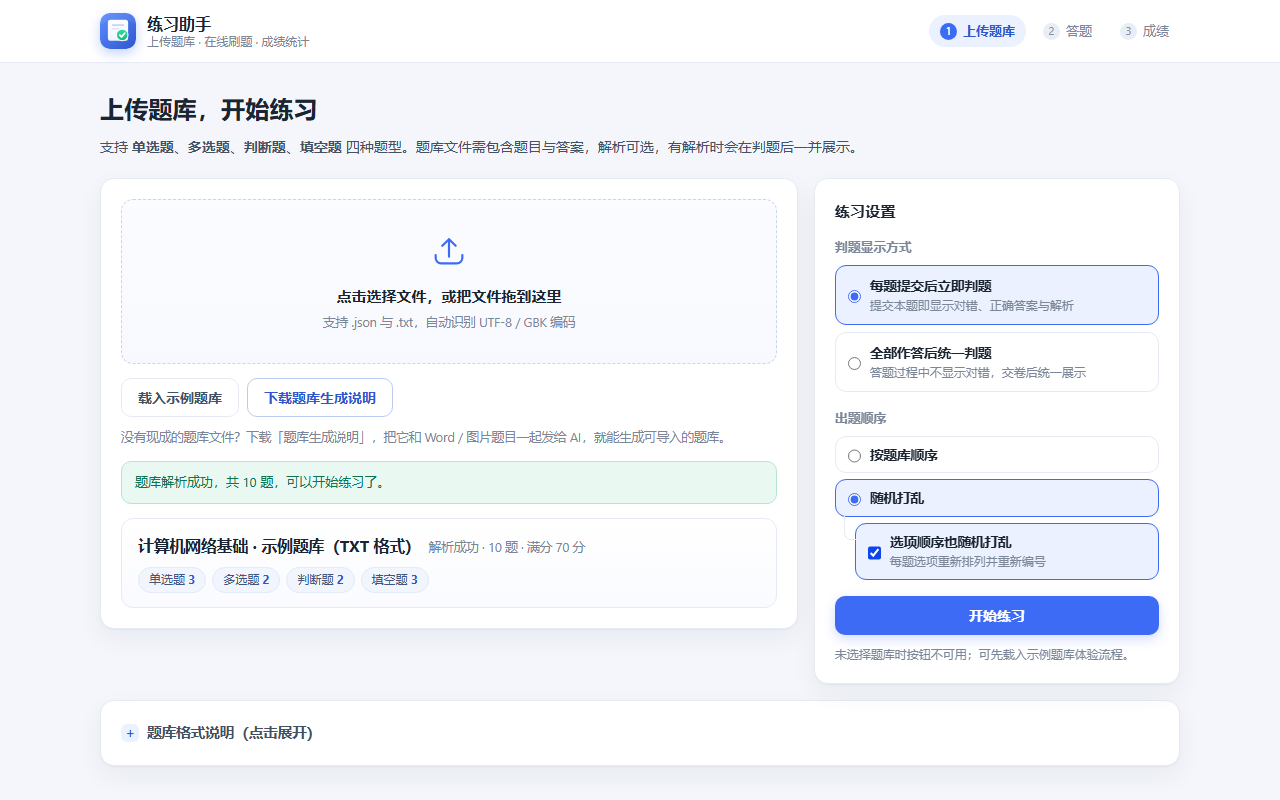
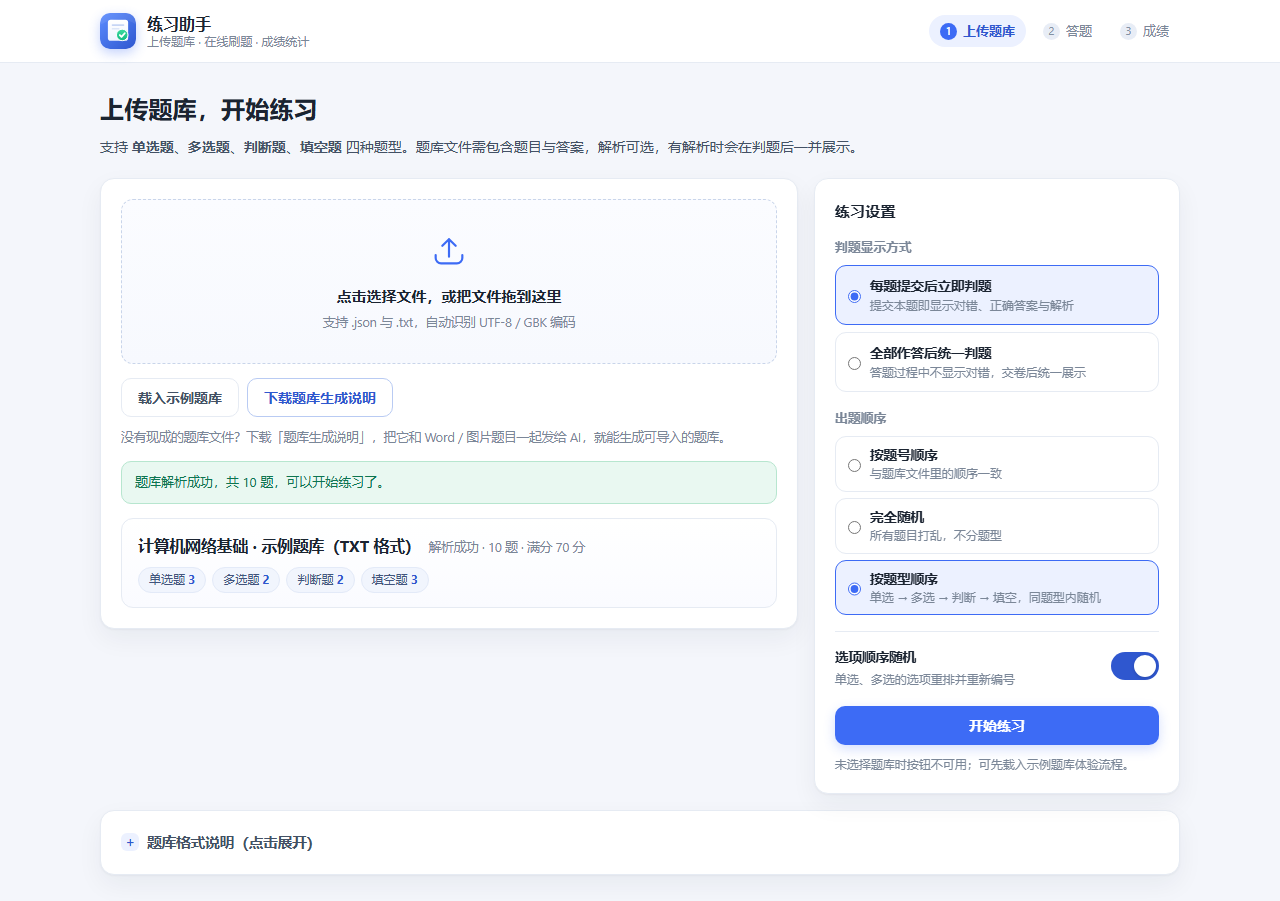
feat: 出题顺序改为三档，选项乱序独立成开关
- 出题顺序：按题号顺序 / 完全随机 / 按题型顺序（单选→多选→判断→填空，同题型内随机）
- 选项乱序由「随机打乱」的附属勾选改为独立开关，任意出题顺序下都能开，仅影响单选与多选
- 措辞统一：每项配一句说明，说明差异而不是堆术语
- 练习页顶部仅在非默认顺序或开启选项乱序时追加标注，默认态保持简洁
- README 同步，上传页截图按新面板重拍

diff --git a/js/app.js b/js/app.js
@@ -65,8 +65,8 @@
     results: [],         // { graded, correct, score }
     current: 0,
     mode: 'instant',     // instant | defer
-    order: 'seq',
-    shuffleOptions: false, // 随机打乱题目的同时，是否也打乱每题选项顺序
+    order: 'seq',          // seq | random | byType
+    shuffleOptions: false, // 选项顺序是否随机（独立开关，不影响出题顺序）
     startTs: 0,
     elapsed: 0,
     timerId: null,
@@ -527,20 +527,48 @@
     q.answers = q.answers.map((k) => oldToNew[k] || k);
   }
 
-  function modeSummary(shuffleOpt) {
+  function modeSummary() {
     const tags = [S.mode === 'instant' ? '每题提交后立即判题' : '全部作答后统一判题'];
-    if (S.order === 'random') tags.push(shuffleOpt ? '题目随机 · 选项乱序' : '题目随机');
+    const orderLabel = { random: '完全随机', byType: '按题型顺序' }[S.order];
+    if (orderLabel) tags.push(orderLabel);
+    if (S.shuffleOptions) tags.push('选项乱序');
     return tags.join(' · ');
+  }
+
+  /**
+   * 按当前设置排列本轮题目：先深拷贝（打乱不污染原题库），
+   * 再按出题顺序重排，最后按需打乱每题选项。
+   */
+  function arrangeQuestions(list) {
+    const cloned = list.map(cloneQuestion);
+    let qs;
+
+    if (S.order === 'random') {
+      qs = shuffle(cloned);
+    } else if (S.order === 'byType') {
+      // 题型固定顺序：单选 → 多选 → 判断 → 填空（选择题优先），同题型内随机
+      const rank = { single: 0, multiple: 1, judge: 2, blank: 3 };
+      const buckets = [[], [], [], []];
+      cloned.forEach((q) => {
+        const r = rank[q.type];
+        buckets[r == null ? 3 : r].push(q);
+      });
+      qs = [];
+      buckets.forEach((bucket) => {
+        shuffle(bucket).forEach((q) => qs.push(q));
+      });
+    } else {
+      qs = cloned;
+    }
+
+    if (S.shuffleOptions) qs.forEach(shuffleQuestionOptions);
+    return qs;
   }
 
   function startPractice(list, label) {
     if (!list || !list.length) return;
 
-    // 深拷贝一份，避免打乱选项时污染原始题库（「重新练习」还要用）
-    const shuffleOpt = S.order === 'random' && S.shuffleOptions;
-    S.questions = list.map(cloneQuestion);
-    if (S.order === 'random') shuffle(S.questions);
-    if (shuffleOpt) S.questions.forEach(shuffleQuestionOptions);
+    S.questions = arrangeQuestions(list);
 
     S.responses = S.questions.map(P.makeEmptyResponse);
     S.results = S.questions.map(() => null);
@@ -549,7 +577,7 @@
 
     $('#practice-title').textContent = label || (S.bank ? S.bank.title : '练习');
     $('#practice-meta').textContent = '共 ' + S.questions.length + ' 题';
-    $('#mode-label').textContent = modeSummary(shuffleOpt);
+    $('#mode-label').textContent = modeSummary();
 
     S.startTs = Date.now();
     startTimer();
@@ -772,24 +800,21 @@
       el.addEventListener('change', () => { if (el.checked) S.mode = el.value; })
     );
 
-    // 选项乱序是「随机打乱」的附属项，只在随机出题时可用
-    const chkShuffleOpts = $('#chk-shuffle-options');
-    const choiceShuffleOpts = $('#choice-shuffle-options');
-    const syncSubOption = () => {
-      const on = S.order === 'random';
-      chkShuffleOpts.disabled = !on;
-      choiceShuffleOpts.classList.toggle('is-off', !on);
+    // 选项乱序是独立开关，与出题顺序互不影响
+    const switchEl = $('#btn-shuffle-options');
+    const syncSwitch = () => {
+      switchEl.classList.toggle('is-on', S.shuffleOptions);
+      switchEl.setAttribute('aria-checked', S.shuffleOptions ? 'true' : 'false');
     };
 
     $$('input[name="order"]').forEach((el) =>
-      el.addEventListener('change', () => {
-        if (!el.checked) return;
-        S.order = el.value;
-        syncSubOption();
-      })
+      el.addEventListener('change', () => { if (el.checked) S.order = el.value; })
     );
 
-    chkShuffleOpts.addEventListener('change', () => { S.shuffleOptions = chkShuffleOpts.checked; });
+    switchEl.addEventListener('click', () => {
+      S.shuffleOptions = !S.shuffleOptions;
+      syncSwitch();
+    });
 
     $('#btn-start').addEventListener('click', () => {
       if (!S.bank || !S.bank.questions.length) return;
@@ -797,11 +822,10 @@
       const checkedOrder = $('input[name="order"]:checked');
       S.mode = checkedMode ? checkedMode.value : 'instant';
       S.order = checkedOrder ? checkedOrder.value : 'seq';
-      S.shuffleOptions = chkShuffleOpts.checked;
       startPractice(S.bank.questions, S.bank.title);
     });
 
-    syncSubOption();
+    syncSwitch();
   }
 
   function bindPractice() {

diff --git a/css/style.css b/css/style.css
@@ -288,37 +288,51 @@ code {
 .choice:has(input:checked) { border-color: var(--primary); background: var(--primary-soft); }
 .choice-sm { padding: 8px 12px; margin-bottom: 6px; }
 
-/* 附属项：从属于上一项，用折线标出层级 */
-.sub-choice {
+/* 开关行：选项顺序随机 */
+.switch-row {
+  display: flex;
+  align-items: center;
+  justify-content: space-between;
+  gap: 12px;
+  padding-top: 13px;
+  margin-bottom: 18px;
+  border-top: 1px solid var(--line);
+}
+
+.switch-text { display: flex; flex-direction: column; gap: 3px; min-width: 0; }
+.switch-title { font-size: 13.5px; font-weight: 550; color: var(--ink); }
+.switch-desc { font-size: 12px; color: var(--muted); line-height: 1.4; }
+
+.switch {
+  flex: none;
+  width: 48px;
+  height: 28px;
+  padding: 0;
+  border: none;
+  border-radius: 99px;
+  background: #d7dfec;
+  cursor: pointer;
   position: relative;
-  margin-left: 20px;
-  margin-top: 2px;
+  transition: background .18s ease;
 }
 
-.sub-choice::before {
-  content: "";
+.switch-knob {
   position: absolute;
-  left: -12px;
-  top: -9px;
-  width: 11px;
-  height: 24px;
-  border-left: 1.5px solid var(--line);
-  border-bottom: 1.5px solid var(--line);
-  border-bottom-left-radius: 7px;
-  pointer-events: none;
+  top: 3px;
+  left: 3px;
+  width: 22px;
+  height: 22px;
+  border-radius: 50%;
+  background: #fff;
+  box-shadow: 0 1px 3px rgba(20, 32, 60, .24);
+  transition: transform .18s ease;
 }
 
-.sub-choice .choice-desc { margin-top: 2px; }
-
-/* 用 .choice 提权，压过 .choice:has(input:checked) 的选中配色 */
-.choice.sub-choice.is-off {
-  cursor: not-allowed;
-  background: #fbfcfe;
-  border-color: var(--line);
-}
-.choice.sub-choice.is-off:hover { background: #fbfcfe; border-color: var(--line); }
-.choice.sub-choice.is-off .choice-title { color: var(--muted); }
-.choice.sub-choice.is-off .choice-desc { color: #aab4c4; }
+.switch.is-on { background: var(--primary); }
+.switch.is-on .switch-knob { transform: translateX(20px); }
+.switch:focus-visible { outline: 2px solid var(--primary); outline-offset: 2px; }
+.switch:hover { background: #c8d2e4; }
+.switch.is-on:hover { background: var(--primary-d); }
 
 .settings-tip { margin-top: 10px; font-size: 12px; color: var(--muted); line-height: 1.5; }
 

diff --git a/index.html b/index.html
@@ -94,20 +94,35 @@
           <div class="field-label">出题顺序</div>
           <label class="choice choice-sm">
             <input type="radio" name="order" value="seq" checked />
-            <span class="choice-body"><span class="choice-title">按题库顺序</span></span>
+            <span class="choice-body">
+              <span class="choice-title">按题号顺序</span>
+              <span class="choice-desc">与题库文件里的顺序一致</span>
+            </span>
           </label>
           <label class="choice choice-sm">
             <input type="radio" name="order" value="random" />
-            <span class="choice-body"><span class="choice-title">随机打乱</span></span>
-          </label>
-
-          <label class="choice choice-sm sub-choice is-off" id="choice-shuffle-options">
-            <input type="checkbox" id="chk-shuffle-options" disabled />
             <span class="choice-body">
-              <span class="choice-title">选项顺序也随机打乱</span>
-              <span class="choice-desc">每题选项重新排列并重新编号</span>
+              <span class="choice-title">完全随机</span>
+              <span class="choice-desc">所有题目打乱，不分题型</span>
             </span>
           </label>
+          <label class="choice choice-sm">
+            <input type="radio" name="order" value="byType" />
+            <span class="choice-body">
+              <span class="choice-title">按题型顺序</span>
+              <span class="choice-desc">单选 → 多选 → 判断 → 填空，同题型内随机</span>
+            </span>
+          </label>
+        </div>
+
+        <div class="switch-row">
+          <span class="switch-text">
+            <span class="switch-title">选项顺序随机</span>
+            <span class="switch-desc">单选、多选的选项重排并重新编号</span>
+          </span>
+          <button class="switch" id="btn-shuffle-options" type="button" role="switch" aria-checked="false" aria-label="选项顺序随机">
+            <span class="switch-knob"></span>
+          </button>
         </div>
 
         <button class="btn btn-primary btn-block" id="btn-start" disabled>开始练习</button>

diff --git a/README.md b/README.md
@@ -28,7 +28,7 @@
 - **不会做格式也没关系** —— 页面提供可下载的[《题库生成说明》](docs/题库生成说明.md)，连同 Word / PDF / 图片题目一起发给 AI，就能自动转成可导入的题库（详见[下文](#不会写题库让-ai-帮你生成)）。
 - **四种题型全覆盖** —— 单选题、多选题、判断题、填空题。填空题支持多个空，每个空还可以配置多个可接受答案（如「IP地址」或「IP 地址」都算对）。
 - **两种判题节奏** —— ① 每题提交后立即判题，当场看到对错、正确答案和解析；② 全部作答完再统一判题，答题过程不受打扰。
-- **出题可打乱** —— 默认按题库顺序；也可「随机打乱」题目顺序，并勾选附属项「选项顺序也随机打乱」，让每道题的选项重新排列、重新编号（答案字母自动跟着映射，判题不受影响）。
+- **三种出题顺序** —— 按题号顺序（与题库一致）、完全随机、按题型顺序（单选 → 多选 → 判断 → 填空，同题型内随机）。另有一个独立的「选项顺序随机」开关，打开后单选、多选的选项重排并重新编号，答案字母自动跟着映射，判题不受影响。
 - **成绩与错题复盘** —— 总分/满分、正确率、正确/错误/未作答数量、用时一目了然；「全部 / 错题 / 未作答 / 正确」四类筛选，逐题回看你的答案、正确答案与解析；支持一键「重做错题」。
 - **顺手的小细节** —— 答题卡跳题、进度条、计时器、键盘快捷键（`A`–`H` 选择、`Enter` 提交/下一题、`←` `→` 切题）、交卷前对未答题二次确认。
 - **零依赖零构建** —— 原生 HTML/CSS/JavaScript，没有框架、没有打包工具、没有 CDN 依赖，断网也能跑；数据全部留在浏览器内存里，不上传任何内容。
